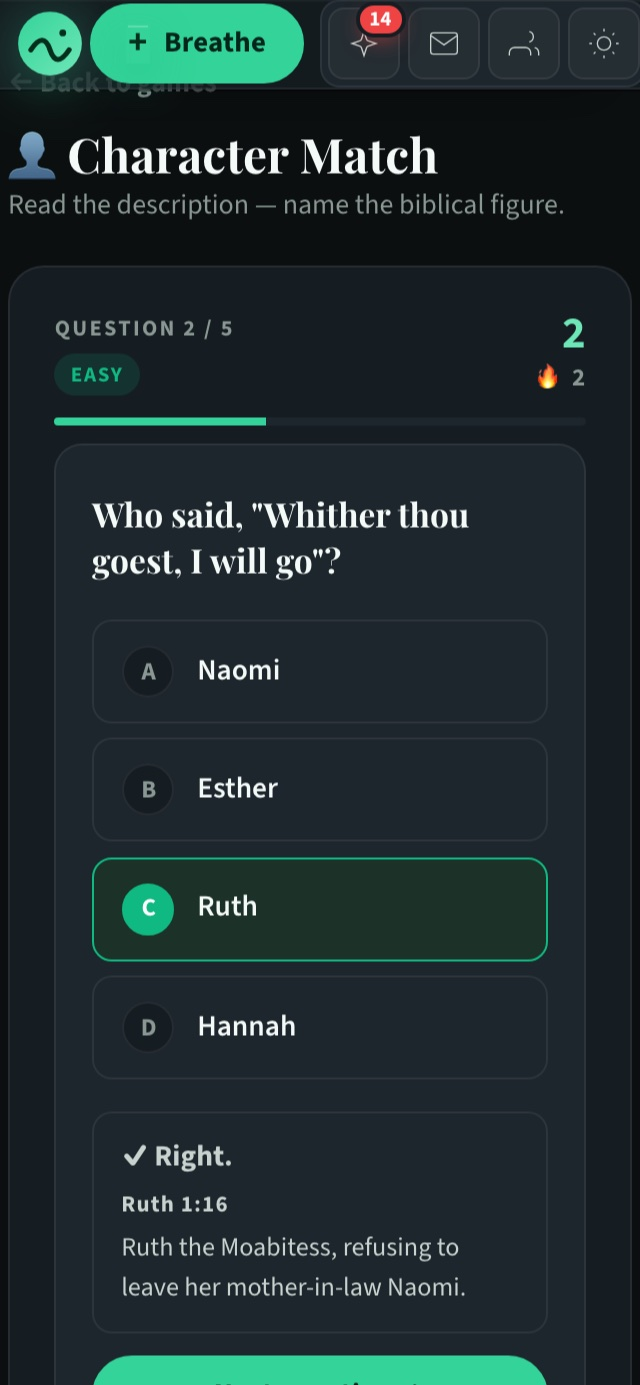
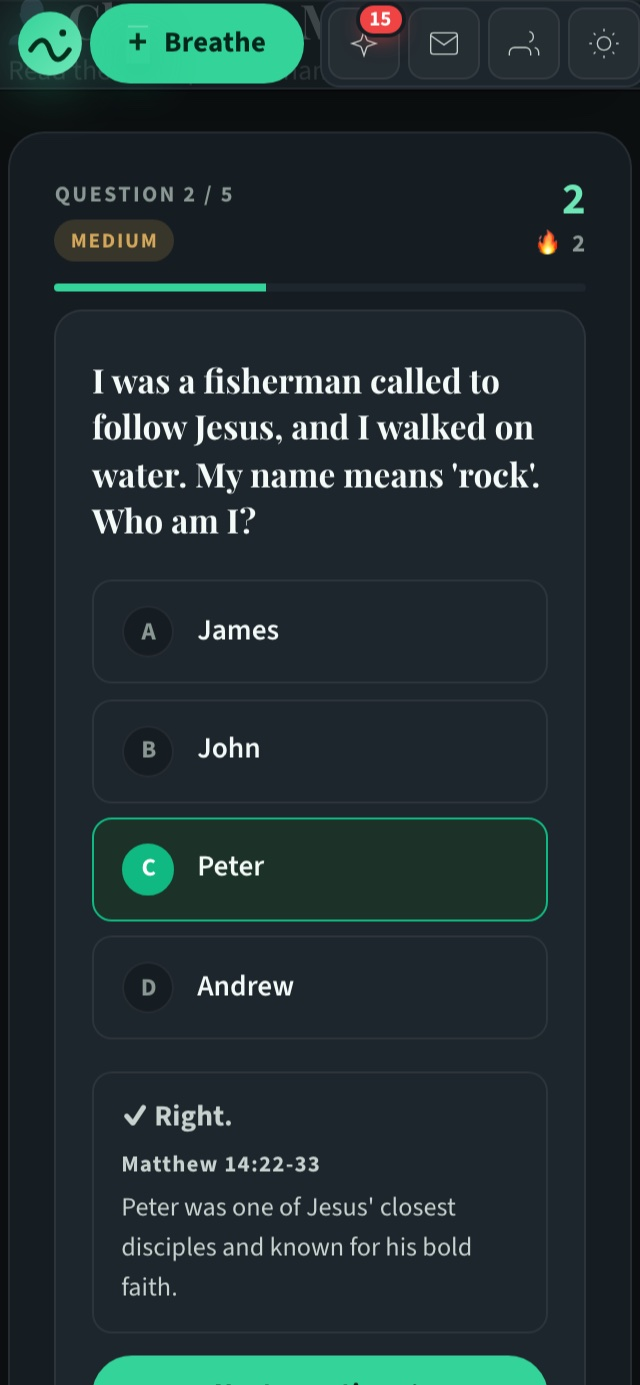
Blog games guides: screenshots with real game rounds, captions to match

diff --git a/app/content/blog/how-to-play-the-bible-quiz.md b/app/content/blog/how-to-play-the-bible-quiz.md
@@ -41,7 +41,7 @@ Each question has four choices. Tap the one you think is right.
 Under the choices you'll see "✓ Right." or "The answer is…", followed by the Bible reference and a short note explaining the answer. Take a moment to read it. This is where most of the learning happens. Then tap **Next** to carry on.
 
 <figure class="bl-shot">
-  <img src="/blog/shots/quiz-question.jpg" alt="Question 1 of 5 on Salvation, Easy: By what are we saved through faith, according to Ephesians 2:8? The answer Grace is marked green, with Right, the reference Ephesians 2:8 and the verse quoted, a link reading Answer looks wrong? Report it, and the score and streak in the top corner">
+  <img src="/blog/shots/quiz-question.jpg" alt="Question 1 of 5 on Salvation, Easy: Which book contains the verse 'For by grace are ye saved through faith'? Ephesians is marked green among Philippians, Galatians and Romans, with Right, the reference Ephesians 2:8 and the verse quoted, a link reading Answer looks wrong? Report it, and the score and streak in the top corner">
   <figcaption>After each answer you see the reference and a short note.</figcaption>
 </figure>
 
@@ -70,7 +70,7 @@ Below that are your stats, including your best streak and how long the round too
 - **Play again** starts a new round with the same settings.
 
 <figure class="bl-shot">
-  <img src="/blog/shots/quiz-result.jpg" alt="A finished Bible Quiz round: a gold medal, 4 out of 5, Almost flawless, tiles for 80% correct, a best streak of 3 and 41 seconds, a share line, and buttons for Share to feed, Copy share line and Play again">
+  <img src="/blog/shots/quiz-result.jpg" alt="A finished Bible Quiz round: a gold medal, 4 out of 5, Almost flawless, tiles for 80% correct, a best streak of 3 and 37 seconds, a share line, and buttons for Share to feed, Copy share line and Play again">
   <figcaption>The result screen, with ways to share or play again.</figcaption>
 </figure>
 

diff --git a/app/content/blog/church-history-quiz-and-arena.md b/app/content/blog/church-history-quiz-and-arena.md
@@ -23,7 +23,7 @@ Open the Games page at [/games](/games) and tap **Church History**. The quiz is 
 Your score is added to your week on the leaderboard, and the result screen lets you share it to your feed, copy a share line or play again.
 
 <figure class="bl-shot">
-  <img src="/blog/shots/history-quiz.jpg" alt="Church History question 1 of 5: Who posted the Ninety-five Theses in Wittenberg in 1517? John Wycliffe is marked red, Martin Luther green, with a note on Wittenberg, 31 October 1517">
+  <img src="/blog/shots/history-quiz.jpg" alt="Church History question 1 of 5: Which hymn writer is known for 'Joy to the World'? Charles Wesley is marked red and Isaac Watts green, with the note that Watts wrote it in 1719, based on Psalm 98">
   <figcaption>Five questions per round, with a short note after each answer.</figcaption>
 </figure>
 
@@ -45,8 +45,8 @@ Tabs across the top take you through six eras:
 Each era opens with a short chronicle, a few paragraphs telling the story of that period.
 
 <figure class="bl-shot">
-  <img src="/blog/shots/history-arena.jpg" alt="The Church History Arena on the Apostolic (33–100) tab, with tabs for six eras, a short chronicle beginning From an upper room in Jerusalem, and cards for Peter the Apostle and Paul the Apostle with their years">
-  <figcaption>The Arena. Pick an era, then tap a figure to read their story.</figcaption>
+  <img src="/blog/shots/history-arena.jpg" alt="The Church History Arena on the Apostolic (33–100) tab, with tabs for six eras, the era description, and the start of its chronicle: The Apostolic era opens in a world transformed by the life, death, and resurrection of Jesus Christ">
+  <figcaption>The Arena. Pick an era and read its chronicle, then scroll down to its figures.</figcaption>
 </figure>
 
 ### Tap a figure to read their story

diff --git a/app/content/blog/four-pics-one-word-bible-puzzles.md b/app/content/blog/four-pics-one-word-bible-puzzles.md
@@ -25,13 +25,13 @@ A round is five puzzles.
 4. **See the answer** with a short note, then tap **Next**.
 
 <figure class="bl-shot">
-  <img src="/blog/shots/pic-word.jpg" alt="A 4 Pics 1 Word puzzle showing a lion, a pit, praying hands and a crown. Daniel in the lions’ den is marked right among David vs Goliath, Joseph in prison and Paul shipwrecked, with the note Daniel 6">
+  <img src="/blog/shots/pic-word.jpg" alt="A 4 Pics 1 Word puzzle showing a ship, a wave, a bird and a rainbow. Noah's Ark is marked right among Elijah and the Ravens, Moses and the Red Sea, and David and Goliath, with the reference Genesis 6-9">
   <figcaption>Four emoji, one Bible story. Which is it?</figcaption>
 </figure>
 
 ## How to read the clues
 
-Take the puzzle in the picture above: 🦁 🕳 🙏 👑. A lion, a pit, prayer and a crown. Put together, they point to Daniel in the lions' den: a man who prayed, was thrown to the lions by order of the king, and was kept safe.
+Take the puzzle in the picture above: 🛳 🌊 🐦 🌈. A ship, a wave, a bird and a rainbow. Put together, they point to Noah's Ark: the ark on the flood waters, the dove sent out to find dry land, and the rainbow of God's promise.
 
 Some ways in:
 

diff --git a/app/content/blog/bible-game-night-with-brethreign.md b/app/content/blog/bible-game-night-with-brethreign.md
@@ -36,7 +36,7 @@ Brethreign's games work well on your own, and they're even better together. All 
 **5. Close with a story from the Church History Arena (5 to 10 minutes).** Open [/history](/history), pick one person and read their story. Talk about one thing you can learn from their faith. Then pray together. See [Church History](/blog/church-history-quiz-and-arena).
 
 <figure class="bl-shot">
-  <img src="/blog/shots/pic-word.jpg" alt="A 4 Pics 1 Word puzzle showing a lion, a pit, praying hands and a crown, with Daniel in the lions’ den marked as the answer">
+  <img src="/blog/shots/pic-word.jpg" alt="A 4 Pics 1 Word puzzle showing a ship, a wave, a bird and a rainbow, with Noah's Ark marked as the answer">
   <figcaption>4 Pics 1 Word is a good opener for mixed ages.</figcaption>
 </figure>
 

diff --git a/app/content/blog/reference-scramble-guide.md b/app/content/blog/reference-scramble-guide.md
@@ -25,7 +25,7 @@ A round is five questions.
 4. **Tap Next** for the next verse.
 
 <figure class="bl-shot">
-  <img src="/blog/shots/reference-scramble.jpg" alt="Reference Scramble question 2 of 5: Trust in the LORD with all thine heart; and lean not unto thine own understanding. Proverbs 3:5 is marked right among Psalm 37:5, Isaiah 26:3 and Proverbs 16:3, with a link to report a wrong answer">
+  <img src="/blog/shots/reference-scramble.jpg" alt="Reference Scramble question 2 of 5: For all have sinned, and come short of the glory of God. Romans 3:23 is marked right among Philippians 3:20, Ephesians 1:7 and Galatians 2:16, with a link to report a wrong answer">
   <figcaption>One verse, four references. Pick where it lives.</figcaption>
 </figure>
 

diff --git a/app/content/blog/character-match-guide.md b/app/content/blog/character-match-guide.md
@@ -23,7 +23,7 @@ Open the Games page at [/games](/games) and tap **Character Match**. The start s
 4. **Tap Next** for the following figure.
 
 <figure class="bl-shot">
-  <img src="/blog/shots/character-match.jpg" alt="Character Match question 2 of 5, Easy: Who said, Whither thou goest, I will go? Ruth is marked right among Naomi, Esther and Hannah, with the reference Ruth 1:16">
+  <img src="/blog/shots/character-match.jpg" alt="Character Match question 2 of 5, Medium: I was a fisherman called to follow Jesus, and I walked on water. My name means 'rock'. Peter is marked right among James, John and Andrew, with the reference Matthew 14:22-33">
   <figcaption>A description, four names, and the story behind the answer.</figcaption>
 </figure>
 

diff --git a/app/content/blog/verse-memory-guide.md b/app/content/blog/verse-memory-guide.md
@@ -25,7 +25,7 @@ Every round has five questions, each on a different verse:
 After each answer you'll see whether you were right, along with the reference, so you know where the verse lives in the Bible.
 
 <figure class="bl-shot">
-  <img src="/blog/shots/verse-memory.jpg" alt="Verse Memory question 2 of 5: The LORD is my blank: I shall not want. Shepherd is marked right, with the reference Psalm 23:1">
+  <img src="/blog/shots/verse-memory.jpg" alt="Verse Memory question 2 of 5: The name of the LORD is a strong blank: the righteous runneth into it, and is safe. Tower is marked right among shelter, fortress and refuge, with the reference Proverbs 18:10">
   <figcaption>A KJV verse with one blank and four choices.</figcaption>
 </figure>
 
